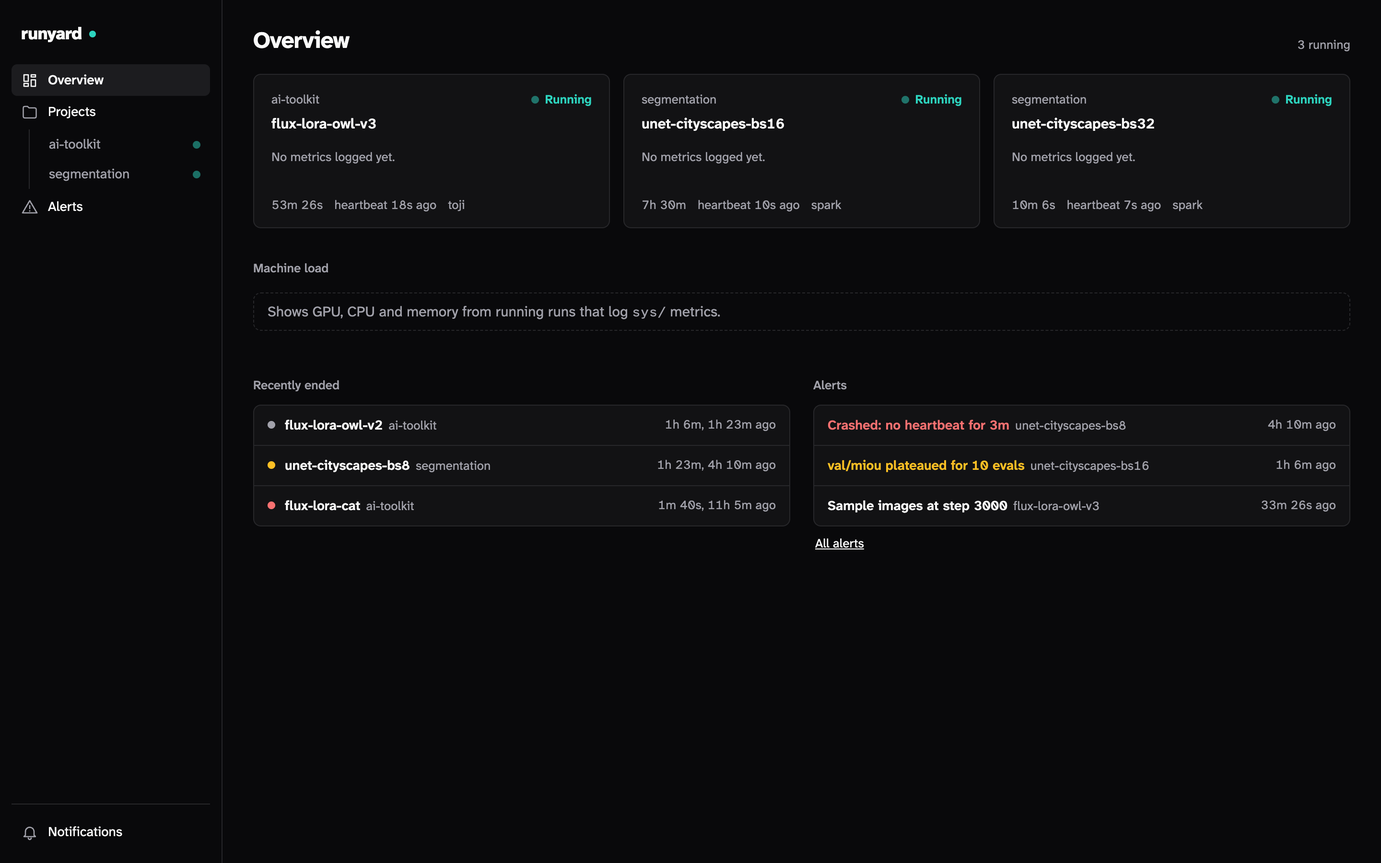
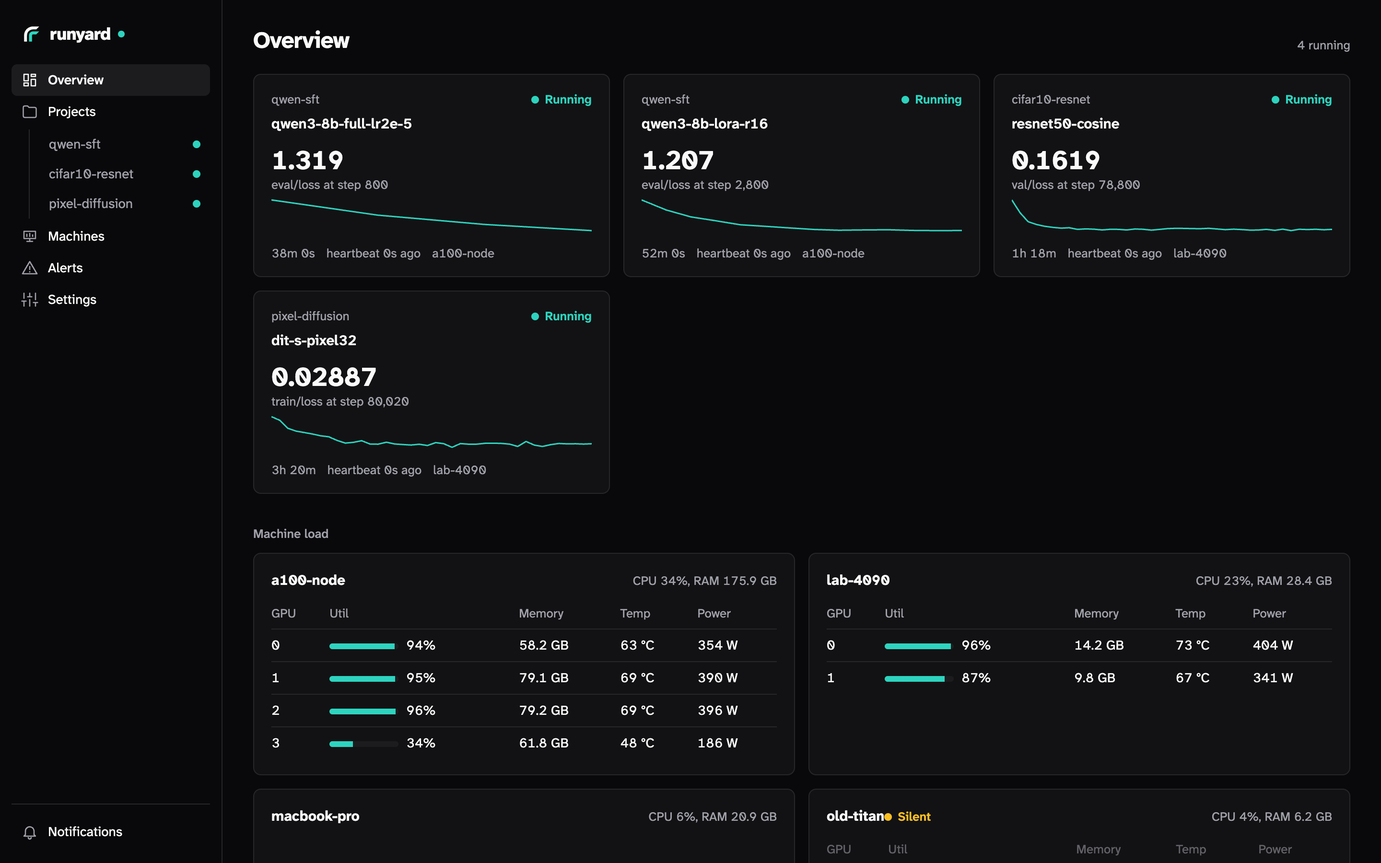
Website for skimming: a short hero with the demo first, six one-line points, code panels that wrap and are highlighted with a copy button, the comparison as marks instead of sentences, a footer with product, docs and download links; hero screenshots from the demo
Claude-Session: https://claude.ai/code/session_01PjqH8skQRvHQedkBaNKHkw

diff --git a/www/index.html b/www/index.html
@@ -27,6 +27,11 @@
       --rule: light-dark(#e5e7eb, #27272a);
       --soft: light-dark(#f3f4f6, #1c1c1f);
       --running: light-dark(#0f9488, #2dd4bf);
+      /* code: the app's chart hues, a step darker on paper and lighter on black */
+      --hl-key: light-dark(#7c3aed, #c4b5fd);
+      --hl-str: light-dark(#15803d, #86efac);
+      --hl-fn: light-dark(#1d4ed8, #93c5fd);
+      --hl-num: light-dark(#c2410c, #fdba74);
       --radius: 8px;
       --radius-sm: 6px;
       --sans: "Atkinson Hyperlegible Next", system-ui, -apple-system, "Segoe UI", Roboto, sans-serif;
@@ -36,6 +41,7 @@
     body { margin: 0; background: var(--paper); color: var(--ink); font: 16px/1.5 var(--sans); font-variant-numeric: tabular-nums; }
     a { color: inherit; }
     .wrap { max-width: 1040px; margin: 0 auto; padding: 0 20px; }
+    .sr { position: absolute; width: 1px; height: 1px; overflow: hidden; clip-path: inset(50%); white-space: nowrap; }
     header { display: flex; align-items: center; gap: 16px; padding: 20px 0; }
     /* The logo: ink lanes and wordmark follow the theme; the inside lane is the running colour, as in the app. */
     .brand { display: block; color: var(--ink); }
@@ -44,49 +50,74 @@
     nav { margin-left: auto; display: flex; gap: 20px; font-size: 0.9375rem; }
     nav a { text-decoration: none; color: var(--muted); }
     nav a:hover { color: var(--ink); }
-    .hero { padding: 56px 0 32px; display: grid; grid-template-columns: minmax(0, 640px) auto; justify-content: space-between; align-items: center; gap: 48px; }
+    @media (max-width: 480px) { nav { gap: 14px; } nav .wide { display: none; } }
+    .hero { padding: 56px 0 32px; display: grid; grid-template-columns: minmax(0, 620px) auto; justify-content: space-between; align-items: center; gap: 48px; }
     .hero-mark { width: 196px; color: var(--ink); }
-    @media (max-width: 760px) { .hero { grid-template-columns: minmax(0, 1fr); } .hero-mark { display: none; } }
-    h1 { font-size: clamp(2rem, 5vw, 3rem); line-height: 1.05; letter-spacing: -0.03em; margin: 0 0 16px; font-weight: 800; }
-    .lede { font-size: 1.125rem; color: var(--muted); margin: 0 0 24px; }
+    @media (max-width: 760px) { .hero { grid-template-columns: minmax(0, 1fr); padding-top: 32px; } .hero-mark { display: none; } }
+    h1 { font-size: clamp(2.125rem, 5.5vw, 3.25rem); line-height: 1.04; letter-spacing: -0.03em; margin: 0 0 16px; font-weight: 800; text-wrap: balance; }
+    .lede { font-size: 1.1875rem; color: var(--muted); margin: 0 0 28px; max-width: 34ch; text-wrap: pretty; }
     .actions { display: flex; flex-wrap: wrap; gap: 10px; }
-    .btn { display: inline-block; padding: 9px 16px; border-radius: var(--radius-sm); border: 1px solid var(--rule); background: var(--panel); text-decoration: none; font-size: 0.9375rem; font-weight: 500; }
+    .btn { display: inline-block; padding: 10px 18px; border-radius: var(--radius-sm); border: 1px solid var(--rule); background: var(--panel); text-decoration: none; font-size: 0.9375rem; font-weight: 600; }
+    .btn:hover { border-color: var(--muted); }
     .btn.primary { background: var(--ink); color: var(--paper); border-color: var(--ink); }
-    .shot { margin: 32px 0 64px; border: 1px solid var(--rule); border-radius: var(--radius); overflow: hidden; background: var(--panel); }
+    .shot { margin: 32px 0 56px; border: 1px solid var(--rule); border-radius: var(--radius); overflow: hidden; background: var(--panel); }
     .shot img { display: block; width: 100%; height: auto; }
     .shot .dark, :root[data-theme="dark"] .shot .light { display: none; }
     @media (prefers-color-scheme: dark) { .shot .light { display: none; } .shot .dark { display: block; } }
-    h2 { font-size: 1.5rem; letter-spacing: -0.02em; margin: 0 0 20px; }
-    .grid { display: grid; grid-template-columns: repeat(auto-fit, minmax(min(100%, 300px), 1fr)); gap: 14px; margin-bottom: 64px; }
-    .card { background: var(--panel); border: 1px solid var(--rule); border-radius: var(--radius); padding: 18px 20px; }
-    .card h3 { margin: 0 0 6px; font-size: 1rem; }
-    .card p { margin: 0; color: var(--muted); font-size: 0.9375rem; }
-    pre { margin: 0 0 14px; padding: 14px 16px; background: var(--panel); border: 1px solid var(--rule); border-radius: var(--radius); font: 0.875rem/1.55 var(--mono); overflow-x: auto; }
-    .c { color: var(--muted); }
-    .k { color: var(--running); }
-    .two { display: grid; grid-template-columns: repeat(auto-fit, minmax(min(100%, 420px), 1fr)); gap: 24px; margin-bottom: 64px; }
-    .two p { color: var(--muted); margin: 0 0 12px; }
-    ul.plain { list-style: none; padding: 0; margin: 0; color: var(--muted); display: grid; gap: 6px; font-size: 0.9375rem; }
-    ul.plain b { color: var(--ink); font-weight: 600; }
-    /* Comparison: scrolls sideways inside its frame on a phone, the row names stay put. */
-    .lead { color: var(--muted); margin: -8px 0 20px; max-width: 72ch; }
-    .compare { overflow-x: auto; border: 1px solid var(--rule); border-radius: var(--radius); background: var(--panel); margin-bottom: 12px; }
-    .compare table { border-collapse: separate; border-spacing: 0; width: 100%; min-width: 900px; font-size: 0.875rem; line-height: 1.45; }
-    .compare th, .compare td { text-align: left; vertical-align: top; padding: 11px 14px; border-bottom: 1px solid var(--rule); }
+    section { margin-bottom: 72px; }
+    h2 { font-size: clamp(1.5rem, 3vw, 1.875rem); letter-spacing: -0.02em; margin: 0 0 8px; text-wrap: balance; }
+    .sub { color: var(--muted); margin: 0 0 24px; font-size: 1.0625rem; }
+    /* One line each: a reader takes in all six at a glance. */
+    .points { display: grid; grid-template-columns: repeat(auto-fit, minmax(min(100%, 280px), 1fr)); gap: 28px 32px; margin: 0; padding: 0; list-style: none; }
+    .points li { border-top: 2px solid var(--running); padding-top: 12px; }
+    .points b { display: block; font-size: 1.0625rem; margin-bottom: 2px; }
+    .points span { color: var(--muted); }
+    /* Code: a labelled panel, lines wrap with a hanging indent, a copy button. */
+    .steps { display: grid; grid-template-columns: repeat(auto-fit, minmax(min(100%, 420px), 1fr)); gap: 20px; }
+    .code { border: 1px solid var(--rule); border-radius: var(--radius); background: var(--panel); overflow: hidden; }
+    .code-head { display: flex; align-items: center; gap: 10px; padding: 8px 8px 8px 14px; border-bottom: 1px solid var(--rule); font-size: 0.875rem; }
+    .code-head .num { display: grid; place-items: center; width: 22px; height: 22px; border-radius: 50%; background: var(--soft); font-weight: 700; font-size: 0.8125rem; }
+    .code-head .file { color: var(--muted); font: 0.8125rem var(--mono); }
+    .copy { margin-left: auto; font: inherit; font-size: 0.8125rem; padding: 4px 10px; border: 1px solid var(--rule); border-radius: var(--radius-sm); background: transparent; color: var(--muted); cursor: pointer; }
+    .copy:hover { color: var(--ink); border-color: var(--muted); }
+    .code pre { margin: 0; padding: 14px 16px; font: 0.875rem/1.65 var(--mono); white-space: pre-wrap; overflow-wrap: anywhere; color: var(--ink); }
+    .ln { display: block; padding-left: 2ch; text-indent: -2ch; }
+    .code .c { color: var(--muted); }
+    .code .k { color: var(--hl-key); }
+    .code .s { color: var(--hl-str); }
+    .code .f { color: var(--hl-fn); }
+    .code .n { color: var(--hl-num); }
+    .code .n, .code .k, .nw { white-space: nowrap; } /* no break inside 3e-4, --build or my-laptop */
+    /* Comparison: marks, not sentences. Scrolls inside its frame on a phone; the row names stay put. */
+    .compare { position: relative; overflow-x: auto; border: 1px solid var(--rule); border-radius: var(--radius); background: var(--panel); }
+    .compare table { border-collapse: separate; border-spacing: 0; width: 100%; min-width: 640px; font-size: 0.9375rem; }
+    .compare th, .compare td { padding: 12px 14px; border-bottom: 1px solid var(--rule); text-align: center; vertical-align: middle; }
     .compare tbody tr:last-child > * { border-bottom: 0; }
-    .compare thead th { font-size: 0.9375rem; white-space: nowrap; }
-    .compare tbody th { font-weight: 600; width: 150px; }
-    .compare th:first-child { position: sticky; left: 0; z-index: 1; background: var(--panel); border-right: 1px solid var(--rule); }
-    .compare td { color: var(--muted); }
-    .compare .us { background: var(--soft); color: var(--ink); }
-    .compare .no { opacity: 0.7; }
-    .nw { white-space: nowrap; }
-    .hint { display: none; color: var(--muted); font-size: 0.8125rem; margin: -8px 0 10px; }
-    @media (max-width: 760px) { .hint { display: block; } .compare tbody th { width: 112px; } }
-    .note { color: var(--muted); font-size: 0.8125rem; margin: 0 0 64px; }
-    footer { border-top: 1px solid var(--rule); padding: 24px 0 48px; color: var(--muted); font-size: 0.875rem; display: flex; flex-wrap: wrap; gap: 8px 24px; }
-    footer a { text-decoration: none; }
-    footer a:hover { text-decoration: underline; }
+    .compare thead th { font-size: 0.875rem; white-space: nowrap; }
+    .compare tbody th { text-align: left; font-weight: 500; }
+    .compare th:first-child { position: sticky; left: 0; z-index: 1; background: var(--panel); border-right: 1px solid var(--rule); width: 34%; }
+    .compare .us { background: var(--soft); }
+    .compare thead .us { font-weight: 800; }
+    .y { color: var(--running); font-weight: 800; font-size: 1.0625rem; }
+    .no { color: var(--muted); opacity: 0.6; }
+    .q { color: var(--muted); font-size: 0.8125rem; white-space: nowrap; }
+    .note { color: var(--muted); font-size: 0.8125rem; margin: 10px 0 0; }
+    .hint { display: none; color: var(--muted); font-size: 0.8125rem; margin: 0 0 10px; }
+    @media (max-width: 700px) { .hint { display: block; } }
+    .cta { text-align: center; padding: 48px 20px; border: 1px solid var(--rule); border-radius: var(--radius); background: var(--panel); }
+    .cta .sub { margin: 0 auto 22px; }
+    footer { border-top: 1px solid var(--rule); background: var(--panel); margin-top: 24px; }
+    .foot { display: grid; grid-template-columns: 1.6fr repeat(3, 1fr); gap: 32px; padding: 40px 0 32px; font-size: 0.9375rem; }
+    @media (max-width: 760px) { .foot { grid-template-columns: repeat(2, 1fr); } .foot .about { grid-column: 1 / -1; } }
+    .foot h3 { margin: 0 0 10px; font-size: 0.8125rem; text-transform: uppercase; letter-spacing: 0.06em; color: var(--muted); }
+    .foot ul { list-style: none; margin: 0; padding: 0; display: grid; gap: 8px; }
+    .foot a { text-decoration: none; }
+    .foot a:hover { text-decoration: underline; }
+    .about svg { width: 36px; height: 36px; color: var(--ink); margin-bottom: 10px; }
+    .about p { margin: 0 0 6px; color: var(--muted); max-width: 30ch; }
+    .legal { display: flex; flex-wrap: wrap; justify-content: space-between; gap: 8px 24px; padding: 16px 0 28px; border-top: 1px solid var(--rule); color: var(--muted); font-size: 0.875rem; }
+    .legal a { text-decoration: none; }
+    .legal a:hover { text-decoration: underline; }
   </style>
 </head>
 <body>
@@ -95,92 +126,136 @@
       <a class="brand" href="/"><svg viewBox="28 28 963.125 200" role="img" aria-label="runyard"><g><path fill="currentColor" d="M36 220 V144 A108 108 0 0 1 144 36 H220 L184 72 H144 A72 72 0 0 0 72 144 V220 Z"/><path class="live" d="M96 220 V144 A48 48 0 0 1 144 96 H220 L184 132 H144 A12 12 0 0 0 132 144 V220 Z"/></g><path fill="currentColor" transform="translate(267.53 185.74) scale(0.21149)" d="M58.93 0.0V-496.0H160.50L187.50 -404.68Q204.12 -441.56 227.56 -464.75Q251.00 -487.93 282.43 -498.71Q313.87 -509.50 352.81 -508.12V-376.43Q296.50 -381.24 260.43 -367.71Q224.37 -354.18 207.03 -322.09Q189.68 -290.00 189.68 -238.43V0.0ZM596.87 12.0Q533.37 12.0 496.65 -12.5Q459.93 -37.0 444.43 -82.90Q428.93 -128.81 428.93 -192.37V-496.0H559.68V-226.31Q559.68 -190.37 564.28 -159.43Q568.87 -128.50 586.90 -110.37Q604.93 -92.25 644.43 -92.25Q695.87 -92.25 720.09 -125.84Q744.31 -159.43 744.31 -231.56V-496.0H875.75V0.0H765.31L744.31 -70.62Q722.62 -33.93 689.03 -10.96Q655.43 12.0 596.87 12.0ZM983.93 0.0V-496.0H1094.75L1114.68 -427.18Q1126.62 -447.75 1148.12 -465.90Q1169.62 -484.06 1200.12 -496.09Q1230.62 -508.12 1269.87 -508.12Q1332.62 -508.12 1368.97 -484.12Q1405.31 -460.12 1420.62 -414.87Q1435.93 -369.62 1435.93 -305.74V0.0H1305.18V-271.81Q1305.18 -307.74 1300.24 -337.84Q1295.31 -367.93 1277.31 -386.21Q1259.31 -404.49 1218.87 -404.49Q1166.81 -404.49 1140.75 -367.81Q1114.68 -331.12 1114.68 -259.37V0.0ZM1527.81 162.0V63.24H1564.68Q1594.68 63.24 1611.50 59.96Q1628.31 56.68 1638.62 45.65Q1648.93 34.62 1656.56 12.18L1661.56 -1.75L1475.0 -496H1615.81L1722.18 -164.44L1824.37 -496.0H1965.19L1780.19 6.87Q1763.75 51.68 1747.34 81.78Q1730.93 111.87 1709.68 129.59Q1688.43 147.31 1657.84 154.65Q1627.25 162.0 1582.50 162.0ZM2146.12 12.0Q2099.12 12.0 2059.96 -5.53Q2020.81 -23.06 1997.65 -55.25Q1974.49 -87.43 1974.49 -132.43Q1974.49 -191.43 2015.84 -227.43Q2057.18 -263.43 2132.99 -283.09Q2208.81 -302.75 2310.68 -310.68V-324.50Q2310.68 -369.93 2286.28 -393.15Q2261.87 -416.37 2214.56 -416.37Q2178.87 -416.37 2153.65 -399.99Q2128.43 -383.62 2120.43 -351.74L2007.12 -390.87Q2029.87 -443.06 2085.5 -475.59Q2141.12 -508.12 2219.12 -508.12Q2325.56 -508.12 2380.47 -460.34Q2435.37 -412.56 2435.37 -303.0V-191.81Q2435.37 -157.00 2437.53 -121.09Q2439.68 -85.18 2443.84 -53.90Q2448.00 -22.62 2452.68 0.0H2331.68L2313.06 -62.49Q2287.24 -24.12 2245.06 -6.06Q2202.87 12.0 2146.12 12.0ZM2191.25 -80.43Q2225.06 -80.43 2252.18 -91.68Q2279.31 -102.93 2294.99 -129.93Q2310.68 -156.93 2310.68 -204.0V-227.87Q2216.06 -220.62 2163.78 -201.46Q2111.50 -182.31 2111.50 -140.62Q2111.50 -113.50 2133.53 -96.96Q2155.56 -80.43 2191.25 -80.43ZM2545.93 0.0V-496.0H2647.50L2674.50 -404.68Q2691.12 -441.56 2714.56 -464.75Q2738.00 -487.93 2769.43 -498.71Q2800.87 -509.50 2839.81 -508.12V-376.43Q2783.50 -381.24 2747.43 -367.71Q2711.37 -354.18 2694.03 -322.09Q2676.68 -290.00 2676.68 -238.43V0.0ZM3081.62 12.0Q3020.12 12.0 2970.78 -19.53Q2921.43 -51.06 2892.96 -109.93Q2864.49 -168.81 2864.49 -250.12Q2864.49 -331.43 2892.96 -388.93Q2921.43 -446.43 2970.78 -477.28Q3020.12 -508.12 3081.62 -508.12Q3128.24 -508.12 3170.31 -486.68Q3212.37 -465.25 3235.74 -424.87V-708.0H3366.50V-191.81Q3366.50 -158.56 3369.68 -108.34Q3372.87 -58.12 3383.50 0.0H3259.12L3239.18 -66.74Q3209.56 -26.74 3168.56 -7.37Q3127.56 12.0 3081.62 12.0ZM3122.18 -91.62Q3156.25 -91.62 3182.93 -108.47Q3209.62 -125.31 3225.40 -159.93Q3241.18 -194.56 3241.18 -248.06Q3241.18 -328.12 3206.81 -366.31Q3172.43 -404.49 3122.18 -404.49Q3071.25 -404.49 3036.87 -364.59Q3002.50 -324.68 3002.50 -250.12Q3002.50 -175.18 3036.87 -133.40Q3071.25 -91.62 3122.18 -91.62Z"/></svg></a>
       <nav>
         <a href="/demo/">Demo</a>
-        <a href="#compare">Compare</a>
+        <a href="#compare" class="wide">Compare</a>
         <a href="https://cobanov.github.io/runyard/">Docs</a>
         <a href="https://github.com/cobanov/runyard">GitHub</a>
       </nav>
     </header>
 
-    <section class="hero">
+    <div class="hero">
       <div>
-      <h1>A training tracker that fits in one binary.</h1>
-      <p class="lede">runyard is a self-hosted tracker for ML and deep learning runs: status, metrics, samples, logs and checkpoints in a phone-first web UI, notifications when a run finishes, fails or goes silent, and an MCP server so agents can read everything. Far fewer features than W&amp;B or MLflow, on purpose.</p>
-      <div class="actions">
-        <a class="btn primary" href="/demo/">Try the demo</a>
-        <a class="btn" href="https://cobanov.github.io/runyard/">Read the docs</a>
-        <a class="btn" href="https://github.com/cobanov/runyard">Source on GitHub</a>
-      </div>
+        <h1>Your training runs, live, on your own machines.</h1>
+        <p class="lede">A self-hosted tracker for ML runs. Check them from your phone, and know the moment one dies.</p>
+        <div class="actions">
+          <a class="btn primary" href="/demo/">Try the live demo</a>
+          <a class="btn" href="https://cobanov.github.io/runyard/">Read the docs</a>
+        </div>
       </div>
       <div class="hero-mark"><svg viewBox="28 28 200 200" aria-hidden="true"><g><path fill="currentColor" d="M36 220 V144 A108 108 0 0 1 144 36 H220 L184 72 H144 A72 72 0 0 0 72 144 V220 Z"/><path class="live" d="M96 220 V144 A48 48 0 0 1 144 96 H220 L184 132 H144 A12 12 0 0 0 132 144 V220 Z"/></g></svg></div>
-    </section>
+    </div>
 
     <figure class="shot" aria-label="The Overview page: running runs with their main metric, machine load per host, recently ended runs and alerts">
       <img class="light" src="img/overview-light.png" width="2880" height="1800" alt="runyard overview, light theme">
       <img class="dark" src="img/overview-dark.png" width="2880" height="1800" alt="runyard overview, dark theme">
     </figure>
 
-    <h2>Five minutes</h2>
-    <div class="two">
-      <div>
-        <p>Run the server with Docker Compose. One Go binary and PostgreSQL; media and artifacts go to a directory or an S3/R2 bucket.</p>
-<pre><span class="c"># server</span>
-git clone https://github.com/cobanov/runyard &amp;&amp; cd runyard
-docker compose up -d --build
-docker compose exec app /runyard-server key create my-laptop</pre>
+    <section aria-label="What it does">
+      <ul class="points">
+        <li><b>Three lines of Python</b><span>Or none: W&amp;B, TensorBoard and MLflow code works as is.</span></li>
+        <li><b>Your phone knows</b><span>When a run finishes, fails, crashes or stalls.</span></li>
+        <li><b>Every GPU in view</b><span>Who is using it, training or not.</span></li>
+        <li><b>Agents can read it</b><span>A built-in MCP server for Claude Code and others.</span></li>
+        <li><b>One binary</b><span>Go and PostgreSQL. Your data stays with you.</span></li>
+        <li><b>Free</b><span>Open source, Apache-2.0. No account to make.</span></li>
+      </ul>
+    </section>
+
+    <section>
+      <h2>Up in a minute</h2>
+      <p class="sub">Start the server once, then log from any training script.</p>
+      <div class="steps">
+        <div class="code">
+          <div class="code-head"><span class="num">1</span>Start the server<button class="copy" type="button">Copy</button></div>
+<pre><code><span class="ln"><span class="f">git</span> clone <span class="s">https://github.com/cobanov/runyard</span> &amp;&amp; <span class="f">cd</span> runyard</span><span class="ln"><span class="f">docker</span> compose up <span class="k">-d --build</span></span><span class="ln"> </span><span class="ln"><span class="c"># an API key for your scripts</span></span><span class="ln"><span class="f">docker</span> compose exec app /runyard-server key create <span class="nw">my-laptop</span></span></code></pre>
+        </div>
+        <div class="code">
+          <div class="code-head"><span class="num">2</span>Log a run <span class="file">train.py</span><button class="copy" type="button">Copy</button></div>
+<pre><code><span class="ln"><span class="c"># pip install runyard</span></span><span class="ln"><span class="k">import</span> runyard <span class="k">as</span> ry</span><span class="ln"> </span><span class="ln">run = ry.<span class="f">init</span>(project=<span class="s">"my-project"</span>, config={<span class="s">"lr"</span>: <span class="n">3e-4</span>})</span><span class="ln">run.<span class="f">log</span>({<span class="s">"loss"</span>: loss.<span class="f">item</span>()}, step=step)</span><span class="ln">run.<span class="f">alert</span>(<span class="s">"loss is NaN"</span>, level=<span class="s">"error"</span>)</span></code></pre>
+        </div>
       </div>
-      <div>
-        <p>Log from Python in three lines. Calls are queued and sent from a background thread, so the library never stops training.</p>
-<pre><span class="c"># pip install runyard, then in the training script</span>
-<span class="k">import</span> runyard <span class="k">as</span> ry
+    </section>
 
-run = ry.init(project=<span class="c">"my-project"</span>, config={<span class="c">"lr"</span>: 3e-4})
-run.log({<span class="c">"loss"</span>: loss.item()}, step=step)
-run.image(<span class="c">"samples"</span>, grid, step=step)
-run.alert(<span class="c">"loss is NaN"</span>, level=<span class="c">"error"</span>)</pre>
+    <section>
+      <h2 id="compare">How it compares</h2>
+      <p class="sub">Fewer features than W&amp;B, on purpose. More of what matters when the GPUs are yours.</p>
+      <p class="hint">Swipe the table to see the others.</p>
+      <div class="compare">
+        <table aria-labelledby="compare">
+          <thead>
+            <tr><th scope="col"><span class="sr">Feature</span></th><th scope="col" class="us">runyard</th><th scope="col">W&amp;B</th><th scope="col">Trackio</th><th scope="col">MLflow</th><th scope="col">TensorBoard</th></tr>
+          </thead>
+          <tbody>
+          <tr><th scope="row">Free and open source</th><td class="us"><span class="y" aria-hidden="true">✓</span><span class="sr">Yes</span></td><td><span class="q">Free tier</span></td><td><span class="y" aria-hidden="true">✓</span><span class="sr">Yes</span></td><td><span class="y" aria-hidden="true">✓</span><span class="sr">Yes</span></td><td><span class="y" aria-hidden="true">✓</span><span class="sr">Yes</span></td></tr>
+          <tr><th scope="row">Runs on your own server</th><td class="us"><span class="y" aria-hidden="true">✓</span><span class="sr">Yes</span></td><td><span class="q">Paid license</span></td><td><span class="y" aria-hidden="true">✓</span><span class="sr">Yes</span></td><td><span class="y" aria-hidden="true">✓</span><span class="sr">Yes</span></td><td><span class="q">Local only</span></td></tr>
+          <tr><th scope="row">Notifications</th><td class="us"><span class="y" aria-hidden="true">✓</span><span class="sr">Yes</span></td><td><span class="y" aria-hidden="true">✓</span><span class="sr">Yes</span></td><td><span class="q">Slack, Discord</span></td><td><span class="no" aria-hidden="true">–</span><span class="sr">No</span></td><td><span class="no" aria-hidden="true">–</span><span class="sr">No</span></td></tr>
+          <tr><th scope="row">Catches runs that die silently</th><td class="us"><span class="y" aria-hidden="true">✓</span><span class="sr">Yes</span></td><td><span class="y" aria-hidden="true">✓</span><span class="sr">Yes</span></td><td><span class="no" aria-hidden="true">–</span><span class="sr">No</span></td><td><span class="no" aria-hidden="true">–</span><span class="sr">No</span></td><td><span class="no" aria-hidden="true">–</span><span class="sr">No</span></td></tr>
+          <tr><th scope="row">Watches GPUs, training or not</th><td class="us"><span class="y" aria-hidden="true">✓</span><span class="sr">Yes</span></td><td><span class="no" aria-hidden="true">–</span><span class="sr">No</span></td><td><span class="no" aria-hidden="true">–</span><span class="sr">No</span></td><td><span class="no" aria-hidden="true">–</span><span class="sr">No</span></td><td><span class="no" aria-hidden="true">–</span><span class="sr">No</span></td></tr>
+          <tr><th scope="row">MCP for coding agents</th><td class="us"><span class="y" aria-hidden="true">✓</span><span class="sr">Yes</span></td><td><span class="y" aria-hidden="true">✓</span><span class="sr">Yes</span></td><td><span class="y" aria-hidden="true">✓</span><span class="sr">Yes</span></td><td><span class="y" aria-hidden="true">✓</span><span class="sr">Yes</span></td><td><span class="no" aria-hidden="true">–</span><span class="sr">No</span></td></tr>
+          <tr><th scope="row">Sweeps, reports, registry</th><td class="us"><span class="no" aria-hidden="true">–</span><span class="sr">No</span></td><td><span class="y" aria-hidden="true">✓</span><span class="sr">Yes</span></td><td><span class="q">Reports, registry</span></td><td><span class="q">Registry</span></td><td><span class="no" aria-hidden="true">–</span><span class="sr">No</span></td></tr>
+          </tbody>
+        </table>
       </div>
-    </div>
+      <p class="note">From each project's docs and releases, October 2026. <a href="https://github.com/cobanov/runyard/issues">Spot a mistake?</a></p>
+    </section>
 
-    <h2>What it does</h2>
-    <div class="grid">
-      <div class="card"><h3>Logging</h3><p>Three lines of Python, or no code change at all from tools that speak Weights &amp; Biases, TensorBoard or MLflow. Integrations for transformers, TRL, Accelerate, Lightning, Keras, XGBoost, LightGBM, scikit-learn and torchtune.</p></div>
-      <div class="card"><h3>Reading</h3><p>A phone-first web UI with live charts, samples, logs and config diffs between runs. A CLI with <code>--json</code>, and an MCP server so coding agents can read runs and alerts.</p></div>
-      <div class="card"><h3>Notifications</h3><p>ntfy, Slack, Discord, Telegram, a webhook or web push to the installed app. Checks raise alerts from the data: a NaN loss, a crossed threshold, a stuck run.</p></div>
-      <div class="card"><h3>Your machines</h3><p><code>runyard agent</code> on each box shows its GPUs, every process on them whoever started it, CPU, memory and disk, training or not, with a day of history. You hear about it when a machine goes silent.</p></div>
-      <div class="card"><h3>Self-hosted</h3><p>PostgreSQL, a media directory or an S3-compatible bucket, optional users and teams. API keys, notification channels and old runs are managed on a Settings page. Reach it over Tailscale, a tunnel, or bind it to a port.</p></div>
-      <div class="card"><h3>Honest states</h3><p>A clean exit marks a run finished, an exception failed, and five minutes without a heartbeat crashed. What could not be sent is saved at exit for <code>runyard sync</code>.</p></div>
-    </div>
-
-    <h2 id="compare">How it compares</h2>
-    <p class="lead">runyard does less than W&amp;B or MLflow, on purpose: no sweeps, reports or model registry. What it adds is what you need when the GPUs are your own: your data on your server, your phone told when a run dies, and every machine in view, training or not.</p>
-    <p class="hint">Scroll the table sideways for W&amp;B, Trackio, MLflow and TensorBoard.</p>
-    <div class="compare">
-      <table aria-labelledby="compare">
-        <thead>
-          <tr><th scope="col"><span class="c">October 2026</span></th><th scope="col" class="us">runyard</th><th scope="col">Weights &amp; Biases</th><th scope="col">Trackio</th><th scope="col">MLflow</th><th scope="col">TensorBoard</th></tr>
-        </thead>
-        <tbody>
-          <tr><th scope="row">Price, license</th><td class="us">Free, <span class="nw">Apache-2.0</span></td><td>Free tier, then paid plans; the server is closed source</td><td>Free, MIT</td><td>Free, <span class="nw">Apache-2.0</span></td><td>Free, <span class="nw">Apache-2.0</span></td></tr>
-          <tr><th scope="row">Your data lives</th><td class="us">On your server: PostgreSQL, and a directory or an S3/R2 bucket</td><td>In W&amp;B's cloud, or on a W&amp;B Server you run under a license</td><td>On your disk (SQLite), in a Hugging Face Space, or on your own Trackio server</td><td>On your tracking server, or a managed one (Databricks and others)</td><td>In event files on your disk</td></tr>
-          <tr><th scope="row">To host it</th><td class="us">One Go binary and PostgreSQL</td><td>W&amp;B Server, which needs a license</td><td>A Python process</td><td>A Python server</td><td>A Python process, usually on the training machine</td></tr>
-          <tr><th scope="row">On your phone</th><td class="us">A phone-first web UI you can install, with push notifications; an iOS app in TestFlight</td><td>An iOS app with push, for cloud accounts (not on-premises)</td><td>The web dashboard</td><td>The web UI</td><td class="no">No</td></tr>
-          <tr><th scope="row">Notifications</th><td class="us">ntfy, Slack, Discord, Telegram, webhooks, web push: finished, failed, crashed, stuck, or your own alert</td><td>Email, Slack, webhooks, app push</td><td>Your alerts, to Slack, Discord or a webhook</td><td class="no">Not built in</td><td class="no">No</td></tr>
-          <tr><th scope="row">A run that dies silently</th><td class="us">Crashed after five minutes without a heartbeat, and you are told</td><td>Crashed once its heartbeats stop</td><td class="no">Not detected</td><td class="no">Not detected</td><td class="no">Not detected</td></tr>
-          <tr><th scope="row">Your machines</th><td class="us"><code>runyard agent</code>: GPUs and every process on them, whoever started it, with CPU, memory and disk, training or not; told when a machine goes silent</td><td>System metrics during a run</td><td>System metrics during a run</td><td>System metrics during a run, when turned on</td><td class="no">No</td></tr>
-          <tr><th scope="row">Coding agents</th><td class="us">Built-in MCP server; a CLI with <code>--json</code></td><td>Official MCP server</td><td>MCP server and CLI</td><td>MCP server (MLflow 3.5 and later)</td><td class="no">No</td></tr>
-          <tr><th scope="row">Code written for another tracker</th><td class="us">W&amp;B, TensorBoard and MLflow clients log to it unchanged</td><td>Syncs TensorBoard logs</td><td><code>import trackio as wandb</code></td><td class="no">Its own API</td><td class="no">Its own event files</td></tr>
-          <tr><th scope="row">Sweeps, reports, registry</th><td class="us">None; checkpoints and artifacts are recorded per run</td><td>Sweeps, reports, artifacts and a model registry</td><td>Reports, versioned artifacts and a registry</td><td>A model registry, evaluation and GenAI tracing</td><td class="no">No</td></tr>
-        </tbody>
-      </table>
-    </div>
-    <p class="note">Checked against each project's documentation and releases in October 2026. Something out of date? <a href="https://github.com/cobanov/runyard/issues">Open an issue</a>.</p>
-
-    <footer>
-      <span>runyard, by <a href="https://cobanov.dev">Mert Cobanov</a></span>
-      <a href="https://cobanov.github.io/runyard/">Documentation</a>
-      <a href="https://github.com/cobanov/runyard">GitHub</a>
-      <a href="/llms.txt">llms.txt</a>
-<span>v0.4 on PyPI; APIs may still change.</span>
-    </footer>
+    <section class="cta">
+      <h2>See it before you install it</h2>
+      <p class="sub">The real interface, with runs training in your browser.</p>
+      <a class="btn primary" href="/demo/">Open the demo</a>
+    </section>
   </div>
+
+  <footer>
+    <div class="wrap">
+      <div class="foot">
+        <div class="about">
+          <svg viewBox="28 28 200 200" aria-hidden="true"><g><path fill="currentColor" d="M36 220 V144 A108 108 0 0 1 144 36 H220 L184 72 H144 A72 72 0 0 0 72 144 V220 Z"/><path class="live" d="M96 220 V144 A48 48 0 0 1 144 96 H220 L184 132 H144 A12 12 0 0 0 132 144 V220 Z"/></g></svg>
+          <p>Your training runs, live, on your own machines.</p>
+          <p>Free and open source, Apache-2.0.</p>
+        </div>
+        <div>
+          <h3>Product</h3>
+          <ul>
+            <li><a href="/demo/">Live demo</a></li>
+            <li><a href="#compare">Compare</a></li>
+            <li><a href="https://github.com/cobanov/runyard/releases">Releases</a></li>
+            <li><a href="/llms.txt">llms.txt</a></li>
+          </ul>
+        </div>
+        <div>
+          <h3>Docs</h3>
+          <ul>
+            <li><a href="https://cobanov.github.io/runyard/server/">Run the server</a></li>
+            <li><a href="https://cobanov.github.io/runyard/logging/">Log runs</a></li>
+            <li><a href="https://cobanov.github.io/runyard/reading/">Read runs</a></li>
+            <li><a href="https://cobanov.github.io/runyard/notifications/">Notifications</a></li>
+          </ul>
+        </div>
+        <div>
+          <h3>Get it</h3>
+          <ul>
+            <li><a href="https://github.com/cobanov/runyard">GitHub</a></li>
+            <li><a href="https://pypi.org/project/runyard/">PyPI</a></li>
+            <li><a href="https://github.com/cobanov/runyard/pkgs/container/runyard">Docker image</a></li>
+            <li><a href="https://github.com/cobanov/runyard/issues">Issues</a></li>
+          </ul>
+        </div>
+      </div>
+      <div class="legal">
+        <span>Made by <a href="https://cobanov.dev">Mert Cobanov</a></span>
+        <span>v0.4 on PyPI; APIs may still change.</span>
+      </div>
+    </div>
+  </footer>
+
+  <script>
+    // Copy takes the code as typed, without the panel's label.
+    for (const b of document.querySelectorAll('.copy'))
+      b.onclick = () =>
+        navigator.clipboard.writeText(b.closest('.code').querySelector('code').innerText.trimEnd()).then(
+          () => ((b.textContent = 'Copied'), setTimeout(() => (b.textContent = 'Copy'), 1500)),
+          () => (b.textContent = 'Select and copy'),
+        )
+  </script>
 </body>
 </html>

diff --git a/web/demo/main.js b/web/demo/main.js
@@ -9,6 +9,9 @@ const el = (html) => {
   return t.content.firstChild
 }
 
+// ?still leaves the bar and the notifications out: the website's screenshots are taken that way.
+const still = new URLSearchParams(location.search).has('still')
+
 document.head.append(
   el(`<style>
   .demo-bar { position: fixed; z-index: 50; left: 50%; bottom: 16px; transform: translateX(-50%); width: max-content; max-width: calc(100vw - 24px);
@@ -42,13 +45,14 @@ const bar = el(`<div class="demo-bar" role="region" aria-label="About this demo"
 </div>`)
 bar.querySelector('.go').onclick = () => (location.hash = '#/r/' + startRun())
 bar.querySelector('.x').onclick = () => bar.remove()
-document.body.append(bar)
+if (!still) document.body.append(bar)
 
 // Notifications: what ntfy, Slack or web push would bring to your phone, here for twelve seconds each.
 const notes = el('<div class="demo-notes" aria-live="polite"></div>')
 document.body.append(notes)
 const mark = '<svg viewBox="0 0 256 256" aria-hidden="true"><path fill="currentColor" d="M36 220 V144 A108 108 0 0 1 144 36 H220 L184 72 H144 A72 72 0 0 0 72 144 V220 Z"/><path fill="var(--running)" d="M96 220 V144 A48 48 0 0 1 144 96 H220 L184 132 H144 A12 12 0 0 0 132 144 V220 Z"/></svg>'
 onNotice((n) => {
+  if (still) return
   const note = el(`<button type="button" class="demo-note ${n.level}">${mark}<small>runyard · now</small><b></b><span></span></button>`)
   note.querySelector('b').textContent = n.title
   note.querySelector('span').textContent = n.body
